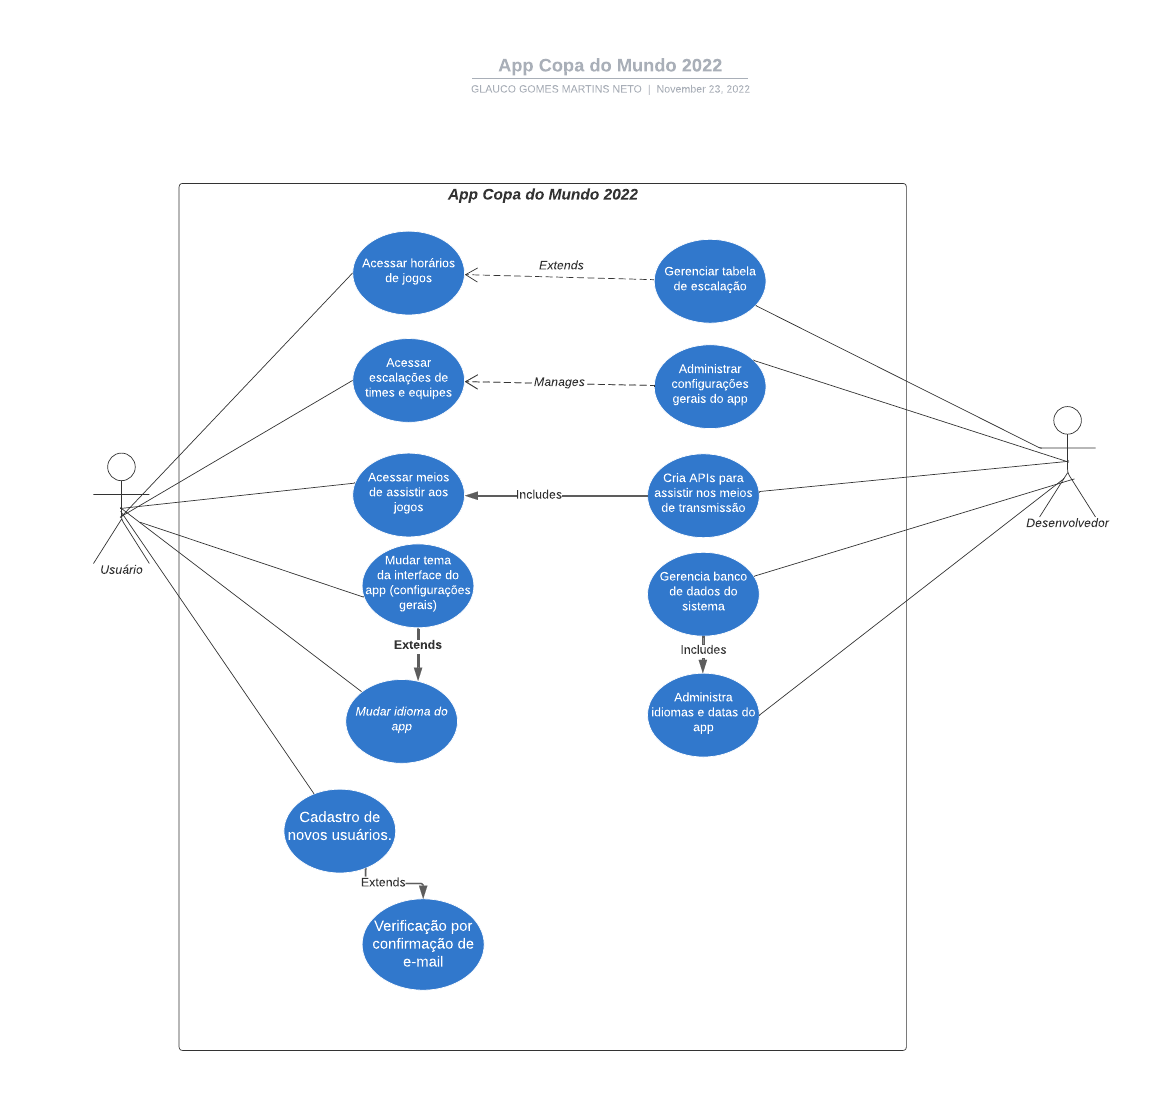
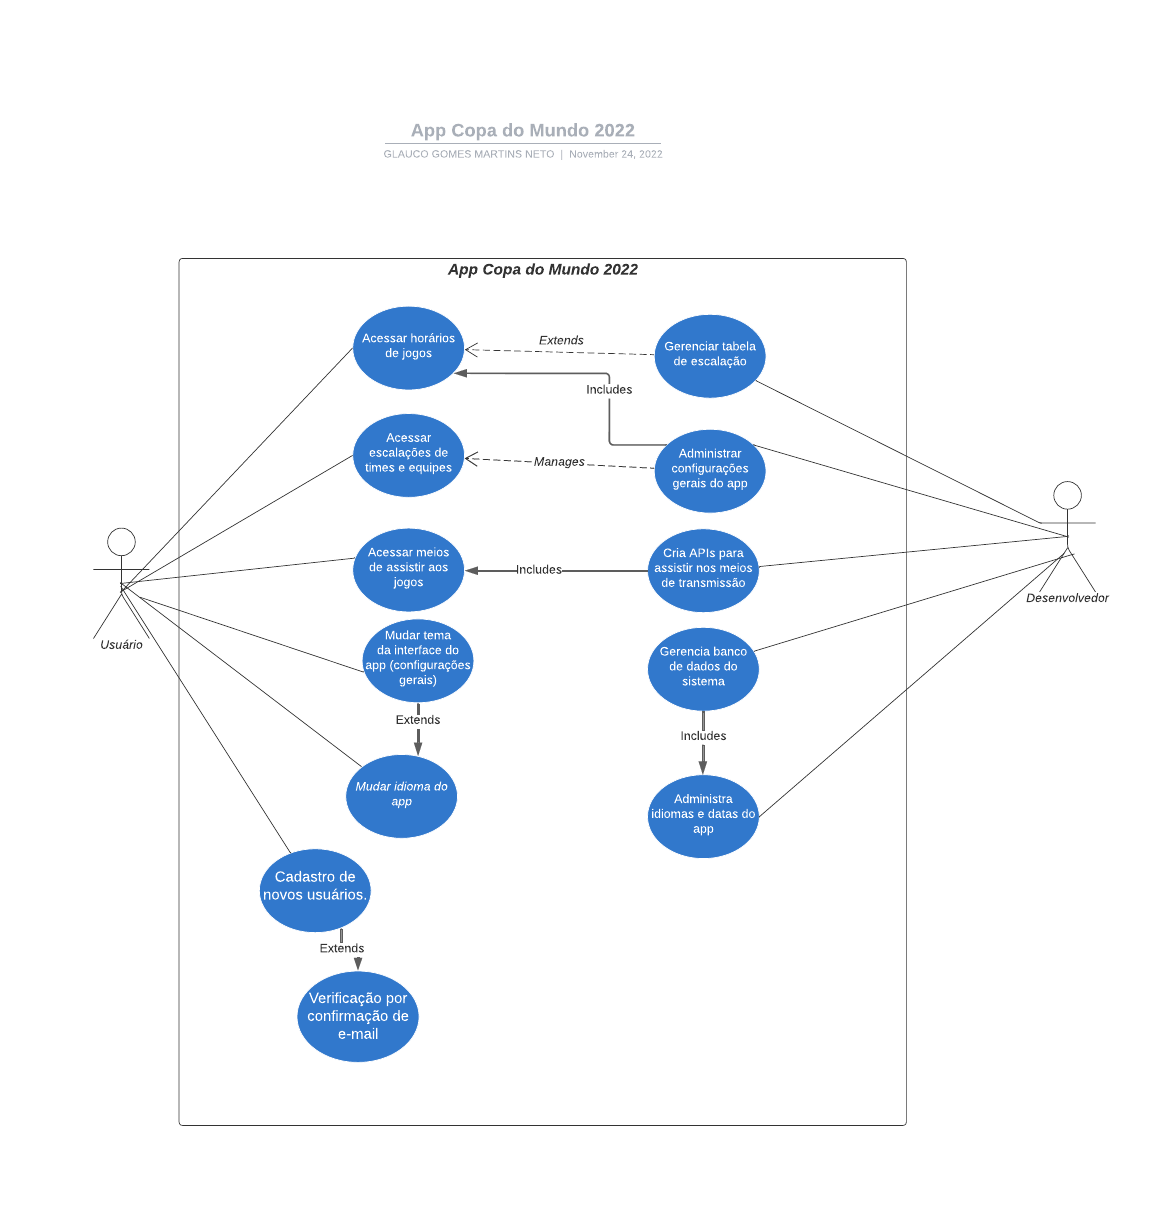
Alterada documentação e diagrama

diff --git a/README.md b/README.md
@@ -1,9 +1,16 @@
 # AppCopa2022
 
-Desenvolvimento de uma aplicação por meio de etapas de desenvolvimento por meio de engenharia de software.
+## Sobre o projeto
+Desenvolvimento de uma aplicação mobile por meio de processos de desenvolvimento gerenciados pela engenharia de software. O app tem como tema a Copa do Mundo da Fifa de 2022. Assim, por meio deste projeto, foi possível colocar em prática diversas habilidades abordadas em aula.
 
-Aqui serão disponibilizadas as imagens de protótipos, do diagrama de caso de uso, entre outros processos que fazem parte do desenvolvimento.
+Projeto feito por alunos do segundo semestre do curso de Tecnologia em Análise e Desenvolvimento de Sistemas da Faculdade de Tecnologia de Campinas.
 
-Até o momento, foi adicionado o diagrama de caso de uso, ainda em sua versão inicial. Futuramente, serão adicionadas novas funcionalidades a esse diagrama, tanto funcionais quanto não funcionais.
+Integrantes:
+- Cássia Xavier
+- Franciele Procopio
+- Glauco Neto
 
-Será adicionado também as imagens de prototipação de interface. Para o protótipo, foi utilizado o figma, uma plataforma de design colaborativo.
+---
+## Componentes
+
+Até o momento, foi desenvolvido quase completamente o diagrama de caso de uso (acesse [aqui](./AppCopa2022.png)). Fazendo parte do processo de desenvolvimento e organização do app, também foi desenvolvido telas de protótipo, para que se possa ter uma ideia de como foi pensado as funcionalidades do aplicativo, além de escolhas de cores e estilos diversos.
